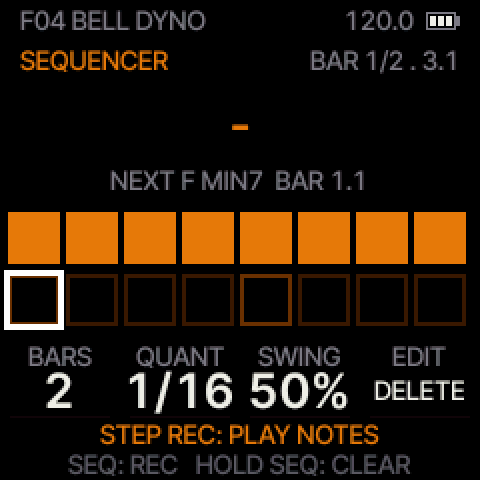
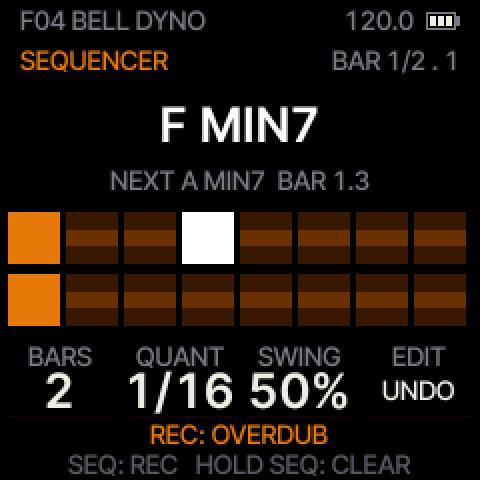
Manual shots: SEQUENCER shot plays its loop, new REVERB INFINITE/FREEZE shot, placement test
- tools/manual_shots.py: the SEQUENCER shot starts the loop (CC 60) before recording, and the
  chord strum is reset to 0 after the CHORD shot (a strummed chord was named by its last note),
  so seq.png shows the live view the text describes (BAR 1/2 . 1, F MIN7, NEXT A MIN7). New
  reverb-inf.png: TYPE INFINITE, DECAY FREEZE, linked under REVERB's types table.
- MANUAL: the intro caption names the type shown (BELL DYNO, was EARLY FELT); ?v= by the tool.
- tests/py/test_manual_shots.py: a new test fails on an unlinked screenshot or one whose
  MANUAL link sits under another page's heading.
- docs/changes/manual-shots.md (with the two-manuals proposal in a comment, not in the notes);
  drive-silence.md: a Changes line for 673c0e92 (KHLON AA passes left out of the image).

Tested (host only, no firmware change, the FM-1 not used): manual_shots.py into a scratch folder
vs the committed PNGs pixel by pixel (36 of 36 equal before; after: seq.png changed,
reverb-inf.png new, every other shot equal); make test PASS; make pytest (PYTEST_N=2): 2887
passed, 9 failed, none from this change (8 need PyYAML, absent from this Python;
test_tracked_tree_is_clean flags main's tests/py/data/move_usb_host_96v90.npz from 77db3096);
tools/doc_links.py 0 problems; tools/changes.py well formed.

diff --git a/tools/manual_shots.py b/tools/manual_shots.py
@@ -138,7 +138,7 @@ def main():
     L, shots, t = ["400 shot"], {400: "splash"}, 100
     if cards is not None:                                   # the rows' design variant (developer CC 11)
         L.insert(0, f"50 midi 0xB0 11 {int(cards)}")           # the start screen, before anything is touched
-    # a sound with something on every page: F04 80S BALLAD, then the tremolo, phaser and compressor on
+    # a sound with something on every page: F04 BELL DYNO, then the tremolo, phaser and compressor on
     t = 500
     L.append(f"{t} midi 0xC0 3 0"); t += 1300                # (the start screen holds the pages for 1.6 s)
     for cc, v in ((17, 64), (18, 70), (12, 127), (13, 70), (106, 127), (107, 64), (113, 15)):
@@ -160,21 +160,28 @@ def main():
                 L.append(f"{t} midi 0xB0 {cc} {v}"); t += 20
             L.append(f"{t} keys 0x1"); L.append(f"{t + 300} keys 0x0"); t += 900
             L.append(f"{t} shot"); shots[t] = name; t += 100
+            if name == "reverb":                            # TYPE INFINITE, DECAY at the top: its word FREEZE
+                L.append(f"{t} midi 0xB0 95 110"); L.append(f"{t + 20} midi 0xB0 92 127")
+                L.append(f"{t + 40} keys 0x1"); L.append(f"{t + 340} keys 0x0"); t += 1700   # (the TYPE message)
+                L.append(f"{t} shot"); shots[t] = "reverb-inf"; t += 100
+                L.append(f"{t} midi 0xB0 92 80"); L.append(f"{t + 20} midi 0xB0 95 80"); t += 900  # PLATE again
             continue
         if name == "chord":                                 # chord mode MAJ7 with a strum, a key held
             L.append(f"{t} midi 0xB0 56 6"); L.append(f"{t + 20} midi 0xB0 59 4"); L.append(f"{t + 100} keys 0x80"); t += 700
             L.append(f"{t} shot"); shots[t] = name
-            L.append(f"{t + 50} keys 0x0"); L.append(f"{t + 100} midi 0xB0 56 0"); t += 300   # chord mode off again
+            L.append(f"{t + 50} keys 0x0"); L.append(f"{t + 100} midi 0xB0 56 0")
+            L.append(f"{t + 120} midi 0xB0 59 0"); t += 300   # chord mode off again, no strum (SEQUENCER's chords)
             continue
         if name == "seq":                                   # a 2-bar pattern recorded live (chord mode, then notes)
             L.append(f"{t} midi 0xB0 61 2"); L.append(f"{t + 20} midi 0xB0 62 3"); L.append(f"{t + 40} midi 0xB0 43 127")
-            L.append(f"{t + 60} midi 0xB0 63 127"); L.append(f"{t + 80} midi 0xB0 56 7"); t += 200   # MIN7 chords
-            for k, dt, hold in ((12, 0, 900), (16, 1000, 900), (9, 2000, 400), (14, 2500, 400)):  # F, A, D, G
+            L.append(f"{t + 60} midi 0xB0 63 127"); L.append(f"{t + 80} midi 0xB0 56 7")   # REC armed, MIN7 chords
+            t += 100; L.append(f"{t} midi 0xB0 60 127")        # PLAY: the loop (2 bars, 4 s at 120) starts at t
+            for k, dt, hold in ((12, 10, 900), (16, 1010, 900), (9, 2010, 400), (14, 2510, 400)):  # F, A, D, G
                 L.append(f"{t + dt} keys {1 << k:#x}"); L.append(f"{t + dt + hold} keys 0x0")
-            L.append(f"{t + 3200} midi 0xB0 56 0"); t += 3300
-            for k, dt in ((19, 0), (21, 250), (23, 500), (24, 750)):          # a little line on top
+            L.append(f"{t + 2950} midi 0xB0 56 0")
+            for k, dt in ((19, 3010), (21, 3260), (23, 3510), (24, 3760)):  # a little line on top, in bar 2
                 L.append(f"{t + dt} keys {1 << k:#x}"); L.append(f"{t + dt + 150} keys 0x0")
-            t += 1200
+            t += 4500                                       # the second pass, bar 1 beat 2: the first chord sounds
             L.append(f"{t} shot"); shots[t] = name
             L.append(f"{t + 50} midi 0xB0 63 0"); L.append(f"{t + 60} midi 0xB0 60 0"); t += 300
             continue

diff --git a/tests/py/test_manual_shots.py b/tests/py/test_manual_shots.py
@@ -7,6 +7,7 @@ frame everywhere). Not the file bytes: the PNG encoder's output depends on the P
 unpinned), so the same pixels can compress to other bytes; a PNG that only re-encoded is not stale. (On the
 2026-10-20 macOS venv the bytes match too.)"""
 import os
+import re
 import subprocess
 import sys
 
@@ -35,3 +36,52 @@ def test_screenshots_are_what_the_code_draws(tmp_path):
         if a.size != b.size or not np.array_equal(np.asarray(a.convert("RGB")), np.asarray(b.convert("RGB"))):
             stale.append(f)
     assert not stale, f"stale screenshots {stale}: run tools/manual_shots.py and commit docs/manual/img and the docs"
+
+
+# where each picture belongs: the heading (### or ##) above its first link in docs/MANUAL.md names what it shows. A
+# page's shot sits under that page's heading (tools/manual_shots.py NAME, by file stem); the others are listed here.
+WHERE = {"voice1": "VOICE 1/2 and 2/2", "voice2": "VOICE 1/2 and 2/2", "piano": "FRODHES (the main page)",
+         "reverb-inf": "REVERB", "splash": "1. Install", "browse": "6. Presets", "save": "6. Presets",
+         "bypass": "7. Effects on and off", "piano-vibes": "VIBES: the vibraphone",
+         "voice1-vibes": "VIBES: the vibraphone", "voice2-vibes": "VIBES: the vibraphone",
+         "voice3-vibes": "The motor: on and off", "piano-marimba": "MARIMBA", "voice1-marimba": "MARIMBA",
+         "voice2-marimba": "MARIMBA"}
+README_ONLY = {"overview", "thumbnail"}                      # the README's pictures (tools/manual_shots.py makes both)
+
+
+def _links(name):
+    """{file stem: [the heading above each of its links]} for the docs/manual/img/*.png (not move/) a doc links"""
+    out, head = {}, ""
+    for line in open(os.path.join(ROOT, name), encoding="utf-8"):
+        if line.startswith("#"):
+            head = line.lstrip("#").strip()
+        for m in re.finditer(r"manual/img/([\w-]+)\.png", line):
+            out.setdefault(m.group(1), []).append(head)
+    return out
+
+
+def test_every_screenshot_is_linked_next_to_its_text():
+    """no orphan: every committed screenshot is linked; and the MANUAL's first link to it sits under the heading of
+    the page (or section) it shows. The intro picture above the contents (piano.png) is skipped as a first link."""
+    sys.path.insert(0, os.path.join(ROOT, "tools"))
+    import manual_shots
+    page = {v: k for k, v in manual_shots.NAME.items()}
+    man, readme = _links("docs/MANUAL.md"), _links("README.md")
+    unused, misplaced = [], []
+    for f in sorted(os.listdir(IMG)):
+        if not f.endswith(".png"):
+            continue
+        stem = f[:-4]
+        if stem in README_ONLY:
+            if stem not in readme:
+                unused.append(f)
+            continue
+        heads = [h for h in man.get(stem, []) if h != "Frodhes: user manual"]   # the title's intro picture
+        if not heads:
+            unused.append(f)
+            continue
+        want = WHERE.get(stem, page.get(stem))
+        if heads[0] != want:
+            misplaced.append(f"{f} under {heads[0]!r}, expected {want!r}")
+    assert not unused, f"screenshots no doc links (link them, or remove them if their page went): {unused}"
+    assert not misplaced, "screenshots away from the text they show (or WHERE needs the new one):\n" + "\n".join(misplaced)

diff --git a/docs/changes/manual-shots.md b/docs/changes/manual-shots.md
@@ -1,0 +1,31 @@
+## Changes
+
+- Manual: the SEQUENCER screenshot shows the loop playing while it records (BAR 1/2 . 1, F MIN7 now, NEXT A MIN7,
+  the bar's cells and the playhead), as its text describes; before, it showed the stopped step-entry view.
+- Manual: a new screenshot on REVERB, TYPE INFINITE with DECAY at the top: the card reads FREEZE (120-126 read
+  SUSTAIN). The intro picture's caption names the type it shows (BELL DYNO).
+
+## Tools
+
+- `tools/manual_shots.py`: the SEQUENCER shot starts the loop (CC 60) before it records, with the chord strum back
+  at 0 after the CHORD shot (a strummed chord was named by its last note); the new shot `reverb-inf.png`.
+- `tests/py/test_manual_shots.py`: a new test fails when a screenshot in `docs/manual/img/` is linked from no doc, or
+  when the MANUAL's link to it sits under another page's heading than the one it shows.
+
+## Tested
+
+- Host: `tools/manual_shots.py` into a scratch folder against the committed pictures, pixel by pixel: before this
+  change all 36 matched; after it only `seq.png` differs and `reverb-inf.png` is new. `make test`, `make pytest`
+  (`PYTEST_N=2`), `tools/doc_links.py` 0 problems, `tools/changes.py`. No firmware change; the FM-1 not used.
+
+<!--
+## Proposal (not done): how the FM-1 and Move manuals sit together
+1. MANUAL.md is the sound manual: sections 2-14 (every page and card) written once for every device.
+2. Each device's manual says only how to reach those pages and what differs: docs/MOVE.md, docs/SMK37.md, linking back.
+3. Appendices 15 and 16 shrink to a paragraph, one picture and the link; their difference lists move to the device files.
+4. Pictures: one folder, one tool, one test per device (img/*.png manual_shots.py; img/move/ move_ui_shots.mjs). No renames.
+5. tools/doc_links.py also checks docs/MOVE.md and docs/SMK37.md (MOVE.md has ?v= hashes nothing enforces yet).
+6. README: one row and one picture pair per device, each linking its manual.
+7. Owners: FM-1 session MANUAL 1-15, README, img/*.png; Move session MANUAL 16, MOVE.md, img/move/.
+8. A shared behaviour change goes into MANUAL section 4; MOVE.md notes only a difference.
+-->

diff --git a/docs/MANUAL.md b/docs/MANUAL.md
@@ -15,7 +15,7 @@ chord mode, a pattern recorder (sequencer), an arpeggiator, scales and tap tempo
 
 Frodhes is an independent open-source project, not affiliated with or endorsed by M-VAVE, the Rhodes or Fender trademark owners or any instrument maker. It comes with no warranty: install it at your own risk (M-VAVE's own firmware can always be put back); see [LICENSING.md](../LICENSING.md).
 
-![The FRODHES page: TYPE (here EARLY FELT), TONE, BELL and KEY VEL](manual/img/piano.png?v=904c35f2)
+![The FRODHES page: TYPE (here BELL DYNO), TONE, BELL and KEY VEL](manual/img/piano.png?v=904c35f2)
 
 ## Contents
 
@@ -385,6 +385,8 @@ The types:
 | **PLATE** | A studio plate: dense from the first moment, bright, with no echoes you can pick out. Good for a ballad or a close, polished sound |
 | **INFINITE** | A huge space that no room has: very long, slowly moving tails that pile up into a pad. At DECAY SUSTAIN (120–126) the tail no longer fades: every note adds to it, up to a ceiling. At FREEZE (127) what is ringing holds, without growing or fading, while you play on top of it dry. Turn DECAY down from either and the tail dies away again |
 
+![REVERB on INFINITE: DECAY at the top reads FREEZE (120–126 read SUSTAIN)](manual/img/reverb-inf.png?v=32c401e1)
+
 When the reverb is OFF, a REVERB knob on PERFORM shows **OFF**; turning it up there switches the reverb on with the
 type you used last.
 
@@ -494,7 +496,7 @@ The filter's LFO (it moves FREQ by the FILTER page's LFO amount).
 
 ### SEQUENCER
 
-![SEQUENCER](manual/img/seq.png?v=7c39df98)
+![SEQUENCER](manual/img/seq.png?v=c0faf5f4)
 
 A **pattern recorder**: play notes or chords (chord mode too) and they loop, quantized, while you keep adding and
 editing. The screen is made to be read at a glance: the top line shows where the loop is (**BAR 2/4 . 3** = bar 2

diff --git a/docs/changes/drive-silence.md b/docs/changes/drive-silence.md
@@ -1,3 +1,8 @@
+## Changes
+
+- The FM-1 and SMK-37 files leave out KHLON's anti-aliased clipper, which their builds never run (the sound is
+  unchanged, every render byte-identical); the flash it took makes room for the drive fix below.
+
 ## Fixed
 
 - The drive (KHLON and the classic drive): after a panic or when every note had died away, the drive could hold a small constant offset (about -58 dBFS) instead of returning to silence, and the tremolo turned it into a faint 2-6 Hz pulse. Integer rounding left the drive's filters at a resting value that was not zero. Now the drive rests at exact zero once its input is silent.
